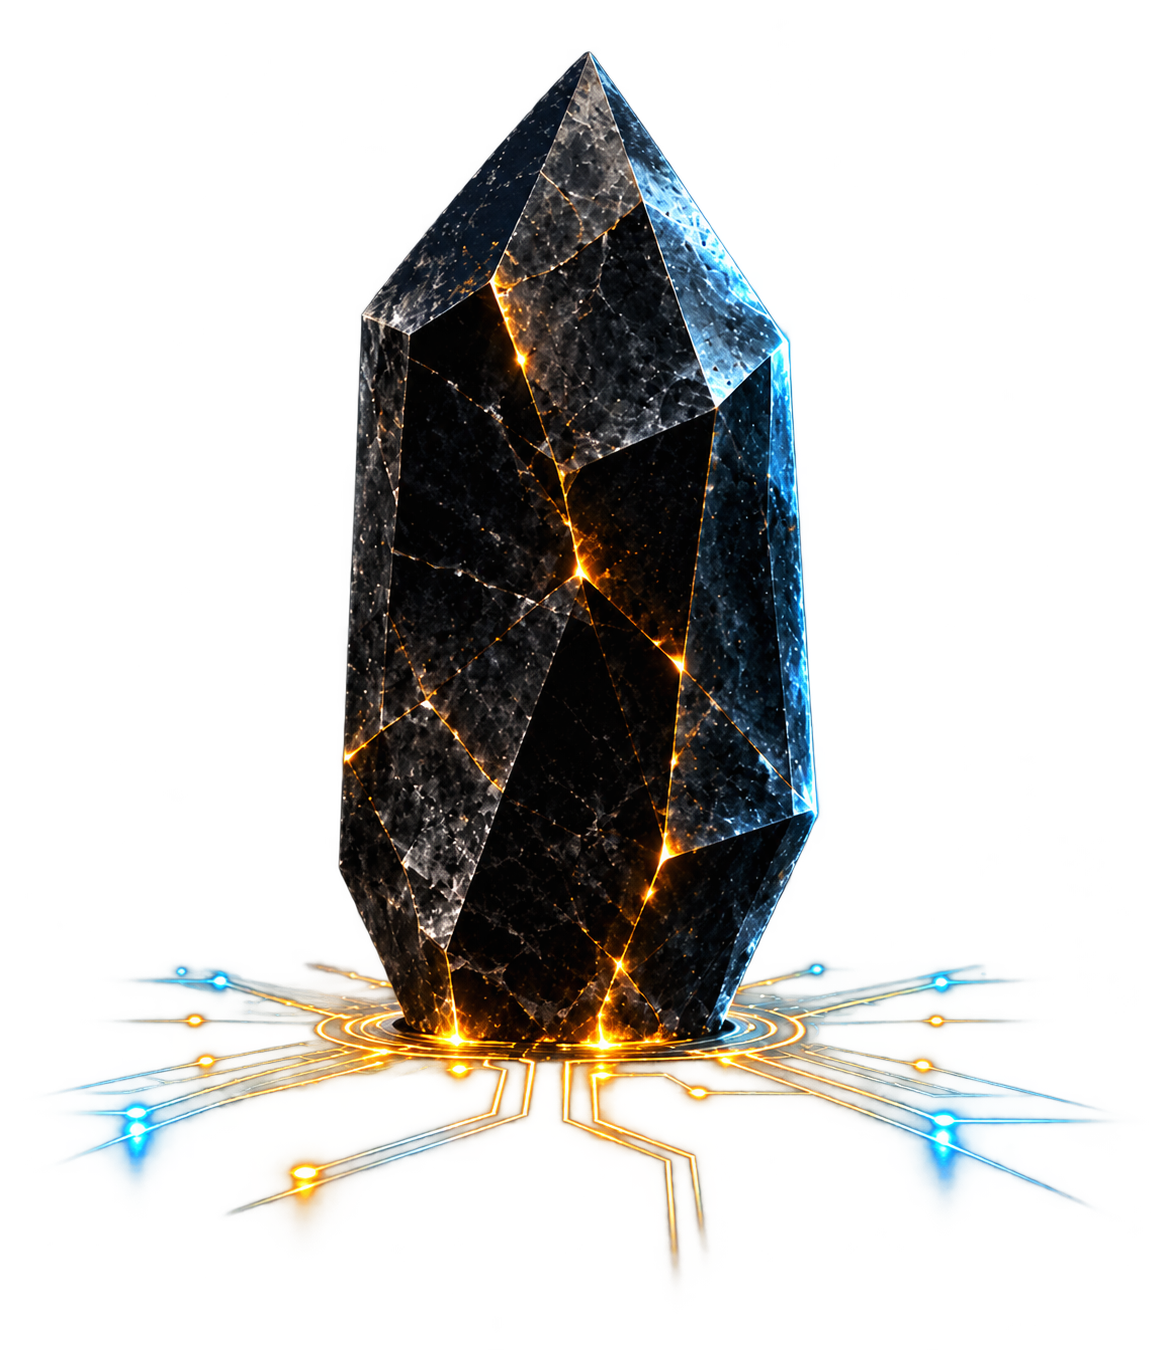
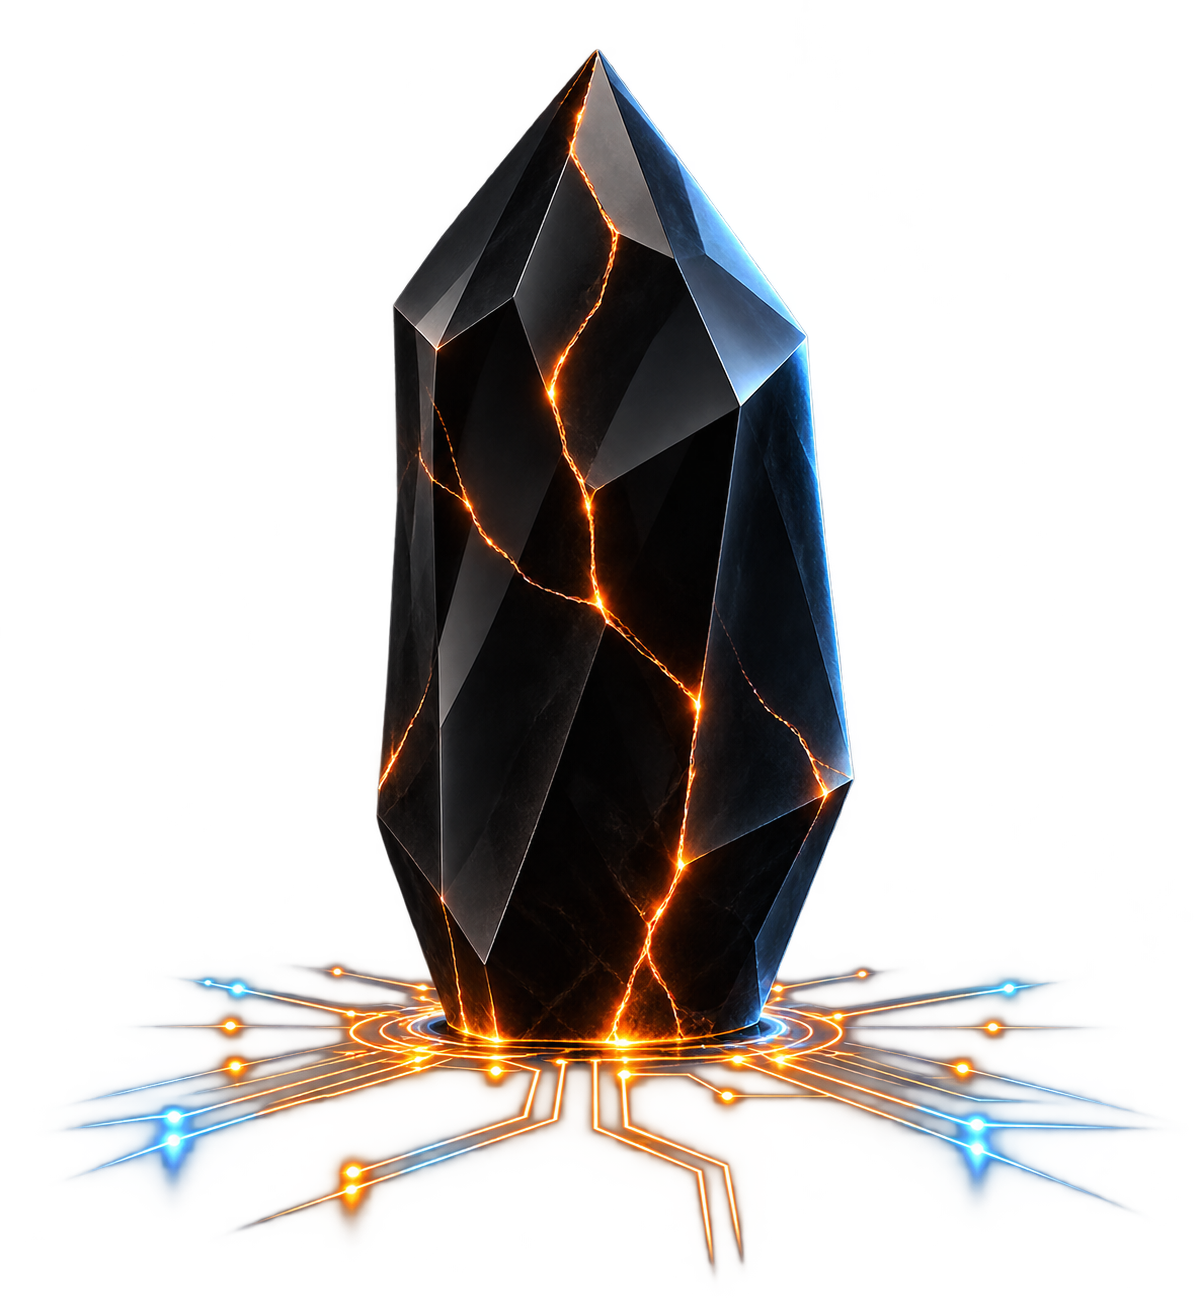
Update hero image and refine homepage pillars and about page copy
Regenerate hero WebP from updated onyx-home source image. Remove
Impact pillar, leaving Knowledge, Systems and Experience with matching
diamond icons in a three-column grid. Move grid layout onto .pillars
directly to avoid CSS caching issues with utility classes. Replace
generic manifesto lines on about page with direct copy. Reword about
page CTA to "Documentation that actually works."

Changed region(s): [[0.0618, 0.0312, 0.9579, 0.9688]]

diff --git a/css/styles.css b/css/styles.css
@@ -77,9 +77,8 @@ h1 span,h2 span{color:var(--orange)}
     width: 100%;
     height: auto;
 }
-.pillars{border-top:1px solid var(--border);border-bottom:1px solid var(--border);padding:28px 0;margin-bottom:96px}
+.pillars{display:grid;grid-template-columns:repeat(3,1fr);gap:28px;border-top:1px solid var(--border);border-bottom:1px solid var(--border);padding:28px 0;margin-bottom:96px}
 .four{display:grid;grid-template-columns:repeat(4,1fr);gap:28px}
-.three{display:grid;grid-template-columns:repeat(3,1fr);gap:28px}
 .pillars article{display:grid;grid-template-columns:auto 1fr;column-gap:12px}
 .pillars .icon{grid-row:1/3;color:var(--cyan);font-size:1.25rem}
 .pillars h2{font-size:.95rem;margin-bottom:3px}
@@ -394,7 +393,7 @@ input:focus,select:focus,textarea:focus{border-color:var(--cyan);box-shadow:0 0 
     .hero{padding-top:55px}
     .hero-art{order:-1}
     .hero-art img{max-height:360px;margin:auto}
-    .four,.three,.cards{grid-template-columns:1fr 1fr}
+    .four,.pillars,.cards{grid-template-columns:1fr 1fr}
     .service-grid{grid-template-columns:1fr}
     .request-layout{gap:20px}
     .discipline-visual{min-height:auto}
@@ -412,7 +411,7 @@ input:focus,select:focus,textarea:focus{border-color:var(--cyan);box-shadow:0 0 
 }
 @media (max-width:620px){
     .page-shell{width:min(calc(100% - 28px),var(--max))}
-    .four,.three,.cards,.form-row{grid-template-columns:1fr}
+    .four,.pillars,.cards,.form-row{grid-template-columns:1fr}
     .hero{min-height:auto}
     h1{font-size:2.85rem}
     .cta-band{align-items:flex-start;flex-direction:column;padding:26px}

diff --git a/index.html b/index.html
@@ -64,16 +64,16 @@
         </div>
       </section>
 
-      <section class="pillars three">
+      <section class="pillars">
         <article><span class="icon">◇</span>
           <h2>Knowledge</h2>
           <p>We turn complexity into clarity.</p>
         </article>
-        <article><span class="icon">⌘</span>
+        <article><span class="icon">◇</span>
           <h2>Systems</h2>
           <p>We build solutions that scale.</p>
         </article>
-        <article><span class="icon">◉</span>
+        <article><span class="icon">◇</span>
           <h2>Experience</h2>
           <p>We design for real people.</p>
         </article>
